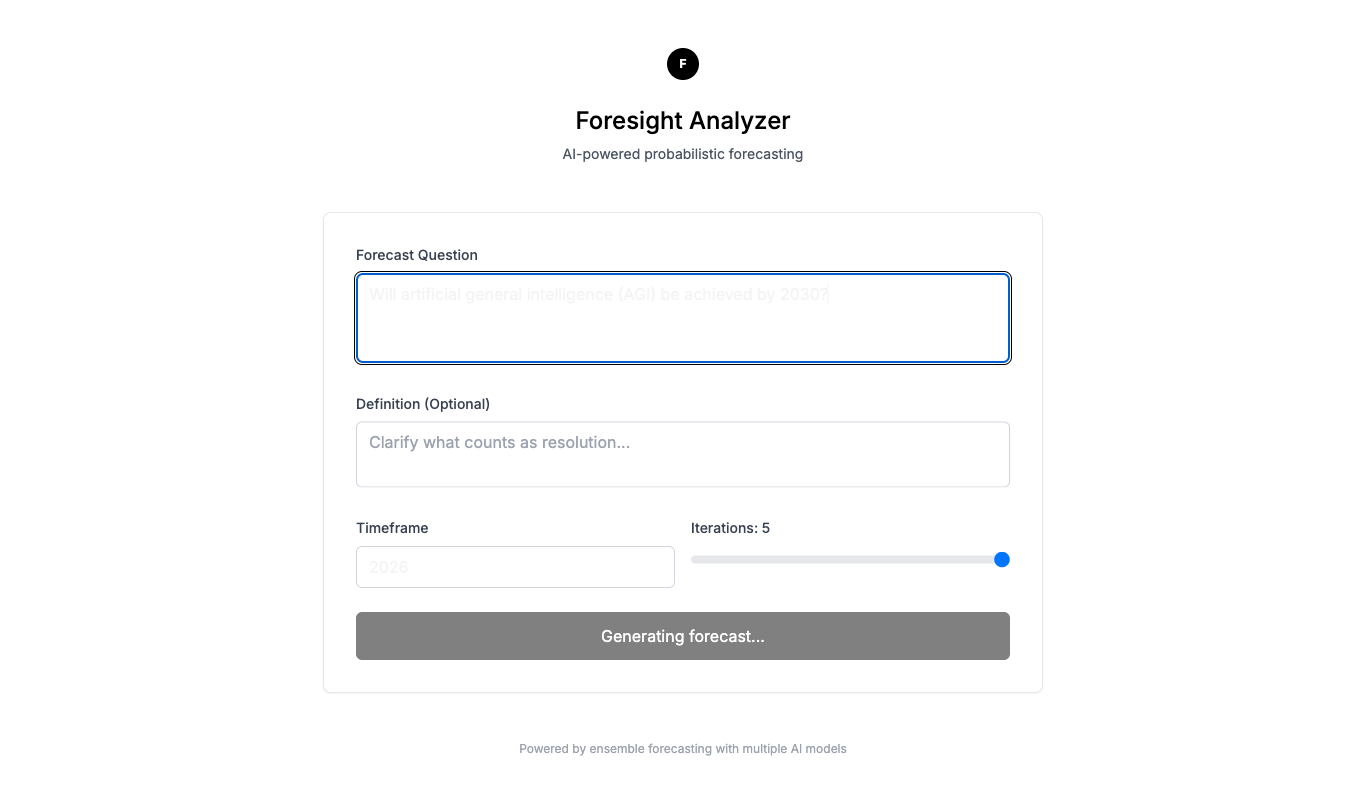
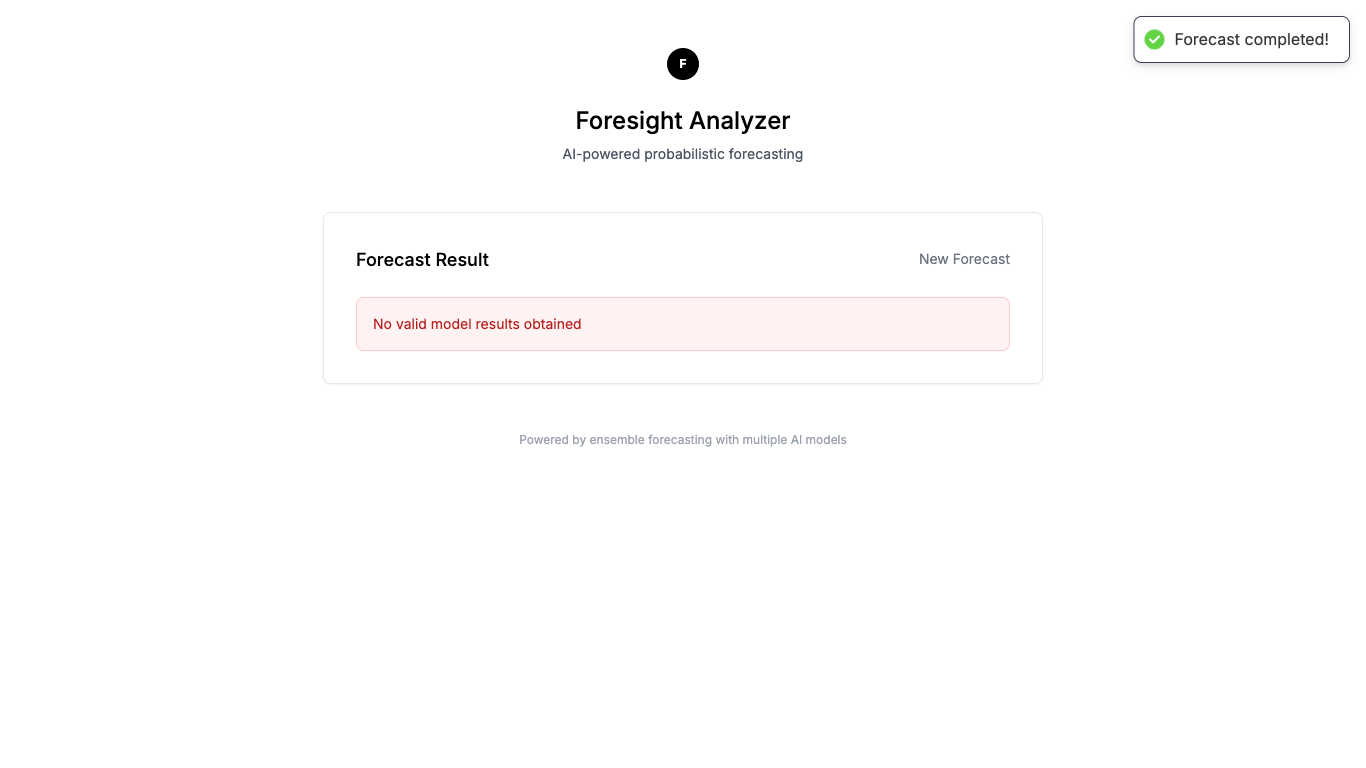
Update OpenRouter API key to valid key
- Replaced invalid API keys with new working key
- Tested and confirmed key is functional
- Updated both backend/.env and .env.local

This fixes the 'No valid model results obtained' error

diff --git a/test-api-key.py b/test-api-key.py
@@ -1,0 +1,74 @@
+#!/usr/bin/env python3
+"""Test OpenRouter API key directly"""
+
+import requests
+import json
+
+# API key from .env.local (the one that was in DEPLOYMENT_GUIDE)
+API_KEY = "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"
+BASE_URL = "https://openrouter.ai/api/v1"
+
+def test_api_key():
+    """Test if the API key works"""
+
+    print("🔍 Testing OpenRouter API Key...")
+    print(f"Key: {API_KEY[:20]}...")
+
+    # Test with a simple completion request
+    headers = {
+        "Authorization": f"Bearer {API_KEY}",
+        "Content-Type": "application/json",
+        "HTTP-Referer": "https://foresight-analyzer.netlify.app",
+        "X-Title": "Foresight Analyzer Test"
+    }
+
+    # Try with a free model
+    data = {
+        "model": "x-ai/grok-4-fast:free",
+        "messages": [
+            {"role": "user", "content": "What is 2+2? Reply with just the number."}
+        ],
+        "max_tokens": 10,
+        "temperature": 0.1
+    }
+
+    try:
+        print(f"\n📤 Sending request to {BASE_URL}/chat/completions")
+        print(f"Model: {data['model']}")
+
+        response = requests.post(
+            f"{BASE_URL}/chat/completions",
+            headers=headers,
+            json=data,
+            timeout=30
+        )
+
+        print(f"\n📥 Response Status: {response.status_code}")
+
+        if response.status_code == 200:
+            result = response.json()
+            print("✅ API Key is VALID!")
+            print(f"Response: {json.dumps(result, indent=2)}")
+            if 'choices' in result:
+                print(f"\nModel response: {result['choices'][0]['message']['content']}")
+        else:
+            print(f"❌ API Key might be invalid or there's an issue")
+            print(f"Response: {response.text}")
+
+            # Try to parse error
+            try:
+                error_data = response.json()
+                if 'error' in error_data:
+                    print(f"\nError details: {error_data['error']}")
+            except:
+                pass
+
+    except requests.exceptions.Timeout:
+        print("❌ Request timed out")
+    except requests.exceptions.RequestException as e:
+        print(f"❌ Request failed: {e}")
+    except Exception as e:
+        print(f"❌ Unexpected error: {e}")
+
+if __name__ == "__main__":
+    test_api_key()

diff --git a/backend/test-both-keys.py b/backend/test-both-keys.py
@@ -1,0 +1,57 @@
+import requests
+import json
+
+# Test both API keys
+API_KEYS = {
+    "NEW_KEY": "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"
+}
+
+BASE_URL = "https://openrouter.ai/api/v1"
+
+print("🔍 Testing OpenRouter API Keys...")
+
+for name, key in API_KEYS.items():
+    print(f"\nTesting {name}: {key[:20]}...")
+
+    headers = {
+        "Authorization": f"Bearer {key}",
+        "Content-Type": "application/json",
+        "HTTP-Referer": "https://foresight-analyzer.netlify.app",
+        "X-Title": "Foresight Test"
+    }
+
+    data = {
+        "model": "x-ai/grok-4-fast:free",
+        "messages": [{"role": "user", "content": "Reply with just: OK"}],
+        "max_tokens": 10,
+        "temperature": 0.1
+    }
+
+    try:
+        response = requests.post(f"{BASE_URL}/chat/completions", headers=headers, json=data, timeout=30)
+        if response.status_code == 200:
+            result = response.json()
+            content = result.get('choices', [{}])[0].get('message', {}).get('content', 'No response')
+            print(f"✅ {name} is VALID! Response: {content}")
+        else:
+            error_data = response.json() if response.text else {}
+            error_msg = error_data.get('error', {}).get('message', 'Unknown error')
+            print(f"❌ {name} failed: {response.status_code} - {error_msg}")
+    except Exception as e:
+        print(f"❌ {name} error: {e}")
+
+print("\n" + "="*50)
+print("RECOMMENDATION:")
+for name, key in API_KEYS.items():
+    print(f"Testing {name}...")
+    headers = {"Authorization": f"Bearer {key}"}
+    try:
+        response = requests.post(f"{BASE_URL}/chat/completions",
+                                headers=headers,
+                                json={"model": "x-ai/grok-4-fast:free", "messages": [{"role": "user", "content": "Hi"}], "max_tokens": 5},
+                                timeout=10)
+        if response.status_code == 200:
+            print(f"  → Use this key in backend/.env: {key[:30]}...")
+            break
+    except:
+        pass
